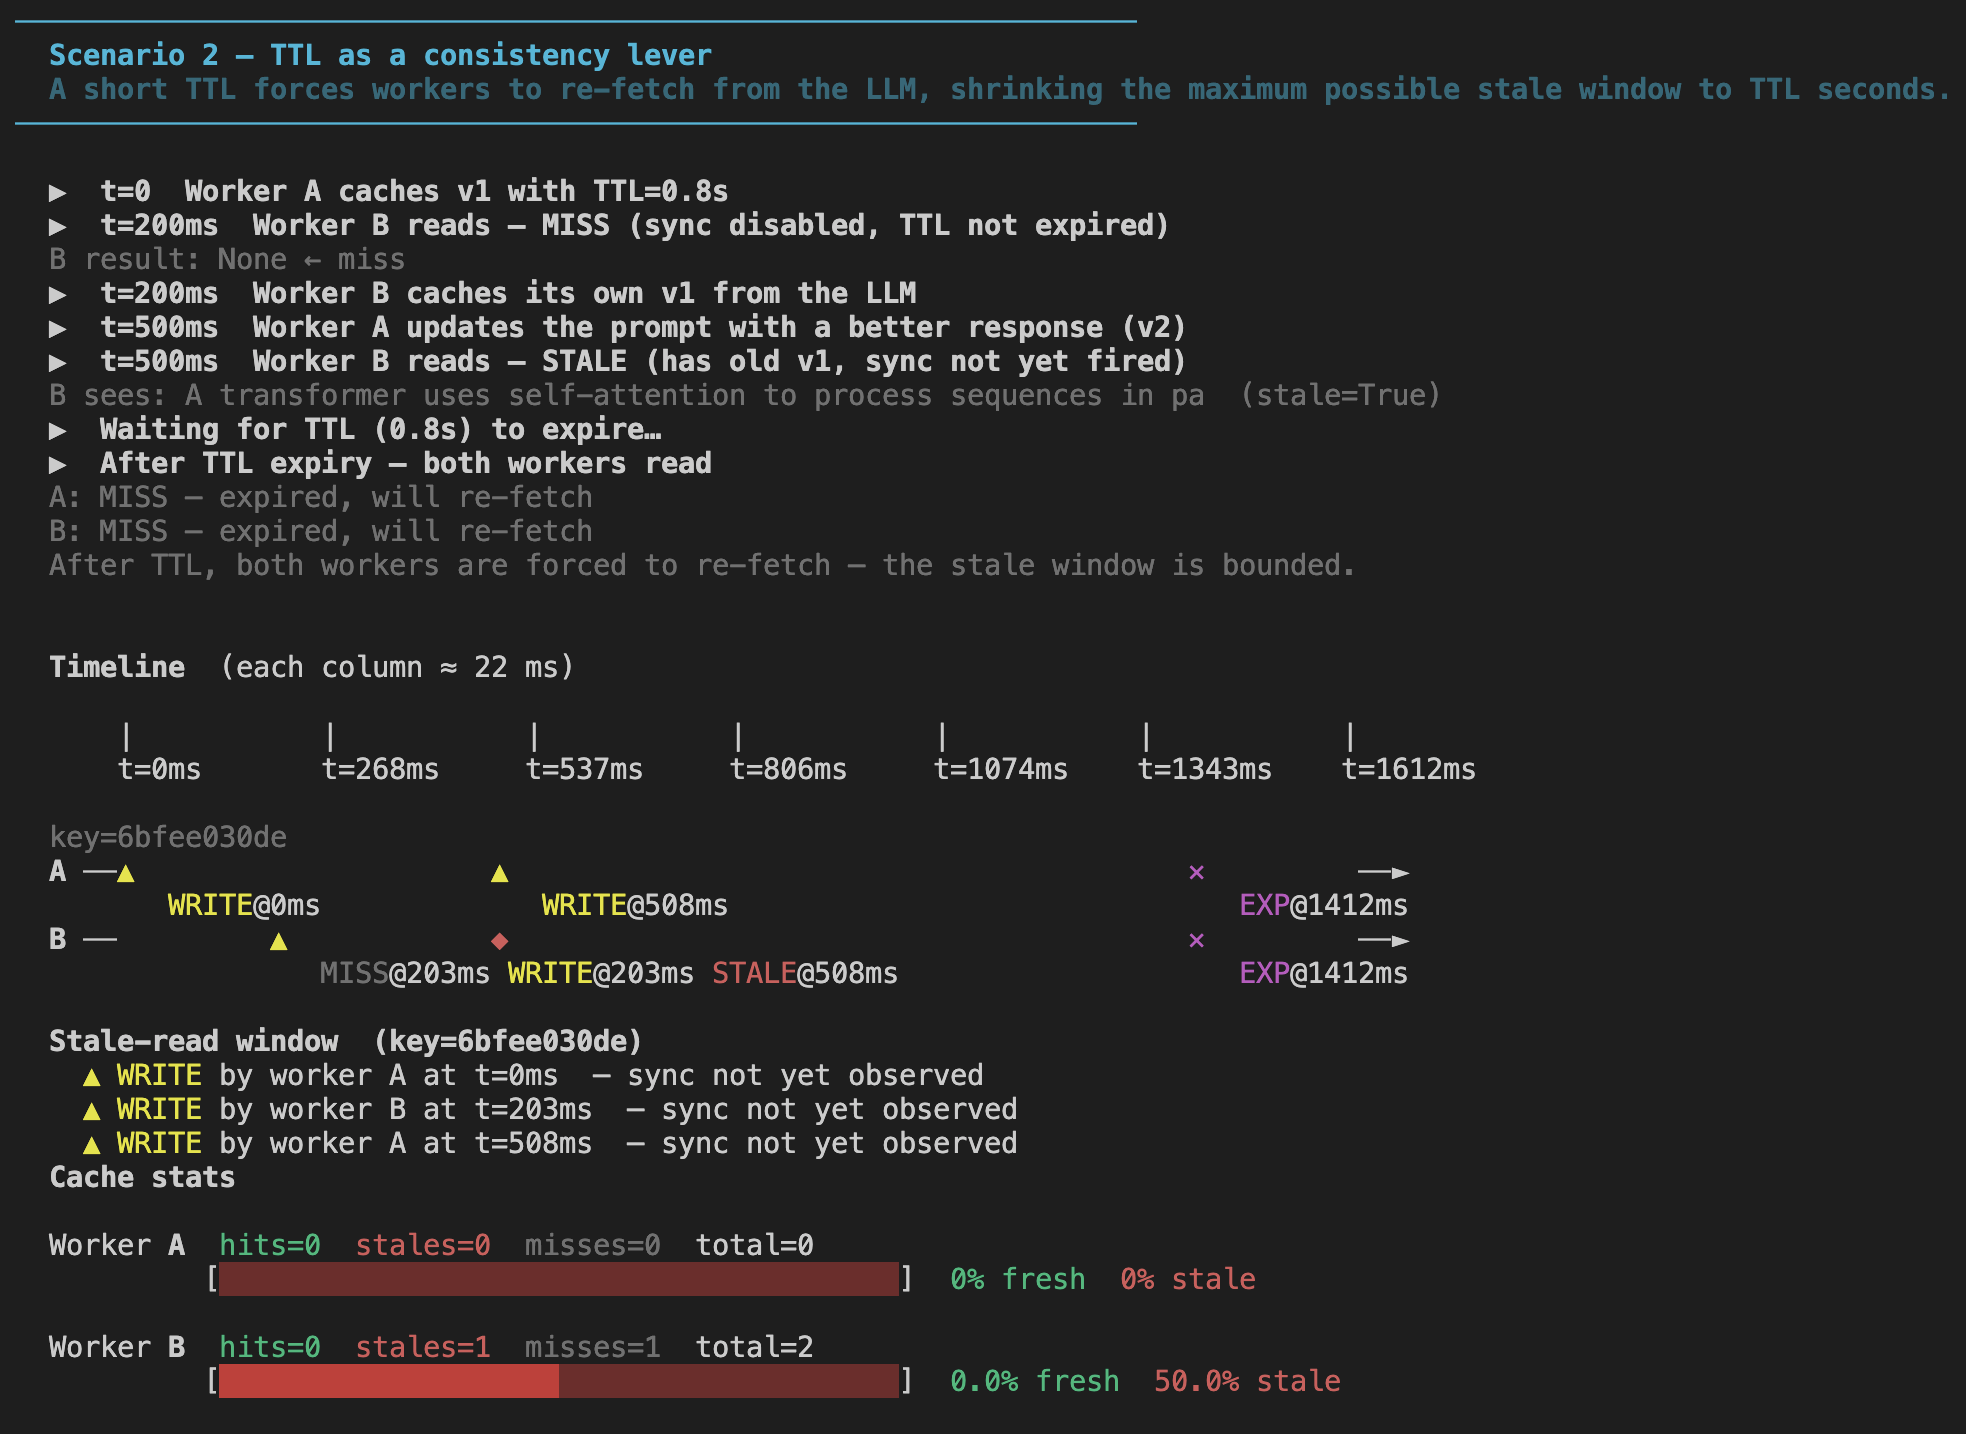
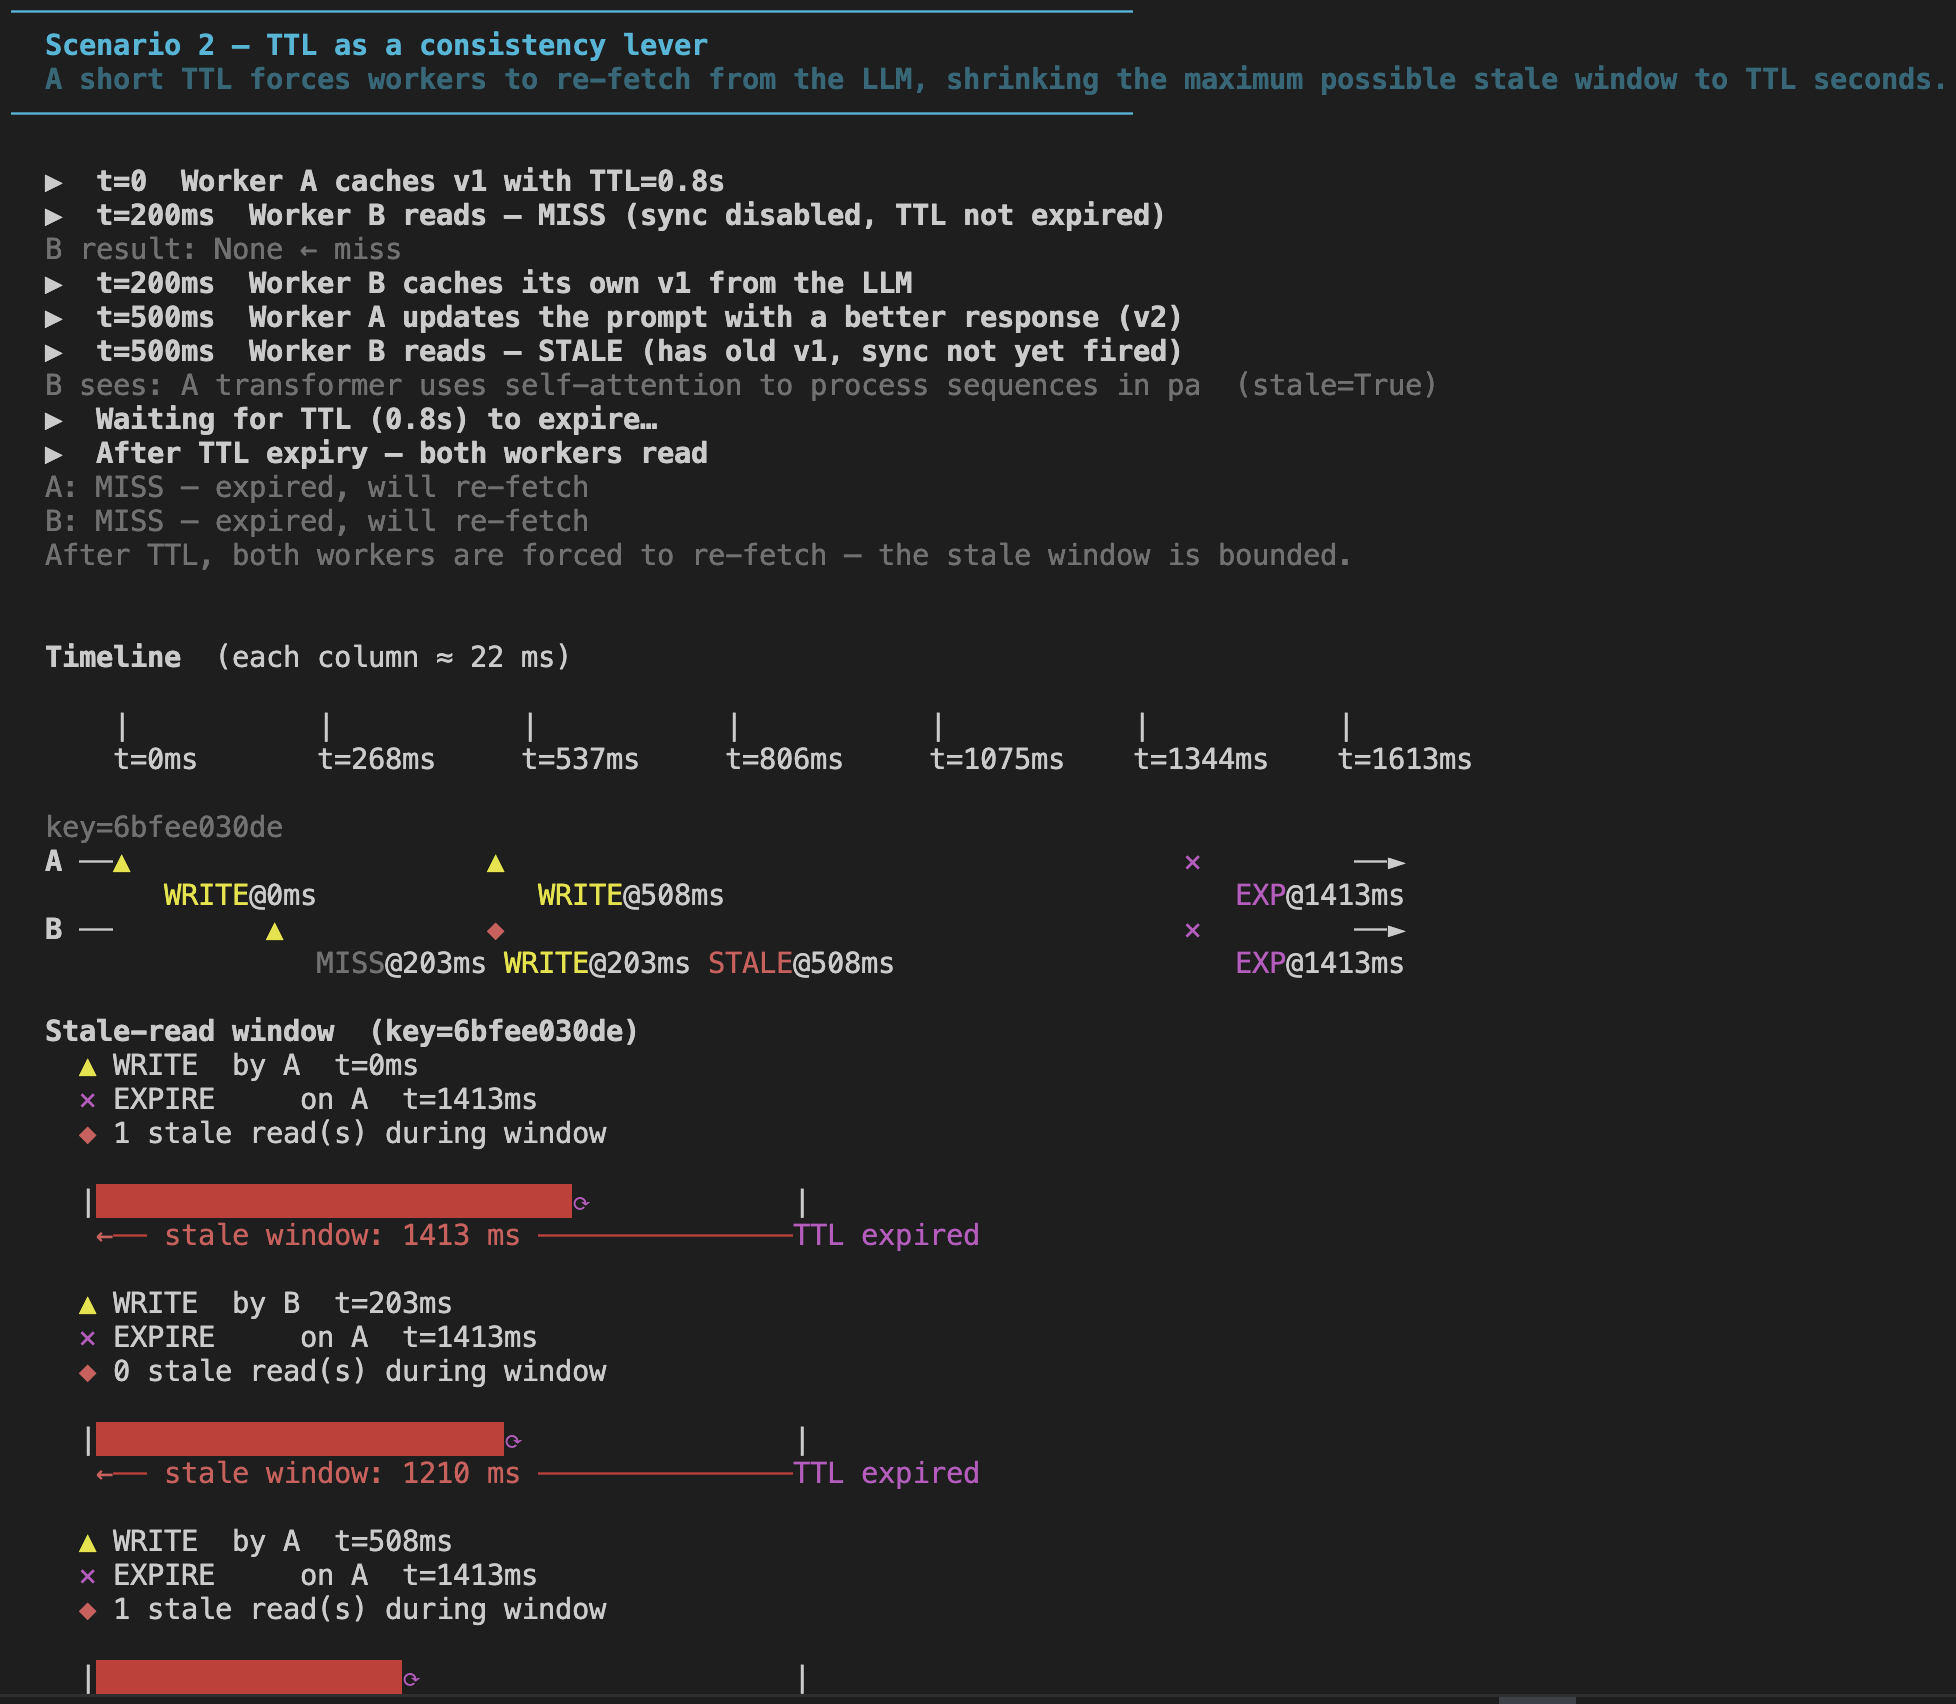
fix bugs

diff --git a/timeline.py b/timeline.py
@@ -126,31 +126,46 @@ def _render_stale_analysis(events: list[CacheEvent], t_start: float):
         found_any = True
         print(f"  {BOLD}Stale-read window  (key={key}){RESET}")
 
+        # SYNC, SYNC_SKIP, or EXPIRE all close the stale window
+        closing_ops = [e for e in k_events if e.op in ("SYNC", "SYNC_SKIP", "EXPIRE")]
+
         for write in writes:
-            # find the sync that closed this write's window
-            relevant_syncs = [s for s in syncs if s.t > write.t and s.worker != write.worker]
-            if not relevant_syncs:
-                print(f"    {YELLOW}▲ WRITE{RESET} by worker {write.worker} at t={write.t:.0f}ms  — sync not yet observed")
+            target = "B" if write.worker == "A" else "A"
+            # closing event on the target worker (for sync-based close)
+            # OR on either worker (for TTL/expiry-based close)
+            relevant = sorted(
+                [e for e in closing_ops if e.t > write.t and
+                 (e.op == "EXPIRE" or e.worker == target)],
+                key=lambda e: e.t
+            )
+            if not relevant:
+                print(f"    {YELLOW}▲ WRITE{RESET} by worker {write.worker} at t={write.t:.0f}ms  — window not yet closed")
                 continue
 
-            sync_evt  = min(relevant_syncs, key=lambda s: s.t)
-            window_ms = sync_evt.t - write.t
+            close_evt = relevant[0]
+            window_ms = close_evt.t - write.t
             stale_cnt = sum(1 for s in stales
-                            if write.t <= s.t <= sync_evt.t
-                            and s.worker != write.worker)
+                            if write.t <= s.t <= close_evt.t
+                            and s.worker == target)
+            close_label = {"SYNC": "synced", "SYNC_SKIP": "sync (skipped — tie)",
+                           "EXPIRE": "TTL expired"}.get(close_evt.op, close_evt.op)
 
-            # draw the window bar
-            bar_w   = 40
-            sync_pos = min(int(window_ms / 2000 * bar_w), bar_w - 1)  # scale to 2 s
-            bar      = (BG_RED + " " * sync_pos + RESET +
-                        CYAN + "⟳" + RESET +
-                        DIM + " " * (bar_w - sync_pos) + RESET)
+            is_expire  = close_evt.op == "EXPIRE"
+            close_icon = MAGENTA + "✕" + RESET if is_expire else CYAN + "⟳" + RESET
+            end_colour = MAGENTA if is_expire else CYAN
 
             print(f"    {YELLOW}▲{RESET} WRITE  by {write.worker}  t={write.t:.0f}ms")
-            print(f"    {CYAN}⟳{RESET} SYNC   to {sync_evt.worker}  t={sync_evt.t:.0f}ms")
+            print(f"    {close_icon} {close_evt.op:<10} on {close_evt.worker}  t={close_evt.t:.0f}ms")
             print(f"    {RED}◆{RESET} {stale_cnt} stale read(s) during window")
+
+            bar_w    = 40
+            sync_pos = min(int(window_ms / 2000 * bar_w), bar_w - 1)
+            bar      = (BG_RED + " " * sync_pos + RESET +
+                        end_colour + "⟳" + RESET +
+                        DIM + " " * (bar_w - sync_pos) + RESET)
+
             print(f"\n    |{bar}|")
-            print(f"     {RED}←── stale window: {window_ms:.0f} ms ───────────────{RESET}{CYAN}synced{RESET}\n")
+            print(f"     {RED}←── stale window: {window_ms:.0f} ms ───────────────{RESET}{end_colour}{close_label}{RESET}\n")
 
     if not found_any:
         print(f"  {GREEN}No stale reads observed.{RESET}  "

diff --git a/demo.py b/demo.py
@@ -108,6 +108,10 @@ def scenario_stale():
         if ra2.response == rb2.response:
             print(f"  {GREEN}  Both agree: {ra2.response[:55]}…  ✓{RESET}")
             note(f"Converged on version v{ra2.version} (last-write-wins: higher version)")
+        elif ra2.version == rb2.version:
+            print(f"  {YELLOW}  Same-version tie — A and B both wrote v{ra2.version} with different content.{RESET}")
+            note("Neither sync overwrote the other (same version = draw).")
+            note("In production: use a tiebreaker (higher-quality model wins, or vector clocks).")
         else:
             print(f"  {RED}  Still diverged! A=v{ra2.version} B=v{rb2.version}{RESET}")
 
@@ -228,7 +232,7 @@ def scenario_conflict():
     # Always use real time so the background Timer fires
     time.sleep(SYNC_DELAY + 0.3)
 
-    step("Post-sync — both workers converge")
+    step("Post-sync — checking convergence")
     ra2 = cache.get("A", PROMPT)
     rb2 = cache.get("B", PROMPT)
     if ra2 and rb2: